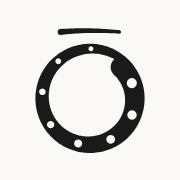
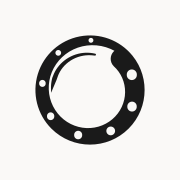
feat(mark): no macron; a far arm slides out from behind the ring (v2.0.106)
The Ō pairing — a round O under a level bar — is a registered mark in this
market, and at icon size the old mark reduced to exactly that. The ring stays
as it was, recentred on (50, 50); the thin end of a second arm slides out from
under its inner edge and runs along the inside of the top, drifting inward to
open a narrow wedge. The Ō stays in the TEKIŌ wordmark.

favicon.svg (22.7 → 4.2 kB), apple-touch-icon.png and the index.html splash
are regenerated from one geometry; the splash draws the far arm with a second
brush in the macron's old slot. RFC 0079 in tekio.rfcs.

Changed region(s): [[0.1944, 0.1389, 0.8056, 0.8611]]

diff --git a/index.html b/index.html
@@ -23,16 +23,15 @@
       #splash .w { font-size: 15px; font-weight: 700; letter-spacing: .14em; margin-right: -.14em; animation: sp-word .5s cubic-bezier(.2, 0, .2, 1) 1.15s both; }
       #splash .r { stroke-dasharray: 1 2; animation: sp-draw 1.1s cubic-bezier(.5, 0, .25, 1) .25s both; }
       #splash .b { transform-box: fill-box; transform-origin: center; animation: sp-touch .14s ease-out .25s both; }
-      #splash .mr { transform-box: fill-box; transform-origin: left center; animation: sp-mac .38s cubic-bezier(.3, 0, .2, 1) .97s both; }
+      #splash .f { stroke-dasharray: 1 2; animation: sp-draw .38s cubic-bezier(.3, 0, .2, 1) .97s both; }
       #splash .d { transform-box: fill-box; transform-origin: center; transform: scale(0); animation: sp-open .26s ease-out both; }
       @keyframes sp-in { from { opacity: 0; } to { opacity: 1; } }
       @keyframes sp-draw { from { stroke-dashoffset: 1; } to { stroke-dashoffset: 0; } }
       @keyframes sp-touch { from { transform: scale(.2); opacity: 0; } }
-      @keyframes sp-mac { from { transform: scaleX(0); } }
       @keyframes sp-word { from { opacity: 0; letter-spacing: .26em; } }
       @keyframes sp-open { from { transform: scale(1); } to { transform: scale(0); } }
       @media (prefers-reduced-motion: reduce) {
-        #splash .r, #splash .b, #splash .mr, #splash .w, #splash .d { animation: none; }
+        #splash .r, #splash .b, #splash .f, #splash .w, #splash .d { animation: none; }
         #splash { transition: none; }
       }
     </style>
@@ -44,31 +43,32 @@
          bootstrap() settles; there is no minimum time on screen, and nothing
          shows for the first 250 ms, so a fast load never sees it at all.
 
-         The mark is public/favicon.svg rebuilt from the construction its own
-         comment states — outer edge a true circle r 39 about (50, 56), inner
-         edge 39 − w(t) with w(t) = 5.2 + 9.8·(1−t)^0.85 over 366° from −45°, a
-         semicircle cap at the root, round suckers — as arcs instead of dense
-         Béziers: 1.8 kB against 21 kB, within anti-aliasing of the favicon at
-         400 px. It is revealed the way it was drawn: a mask stroke follows the
-         centreline, r = 39 − w/2, root to tip. Each
-         sucker is an ink disc laid over its real hole and scaled away 0.1 s
-         after the brush passes it; the delays invert the curl's easing at
-         t = (i + 0.6)/8.8. Change the logo and these numbers are regenerated
-         with it, not hand-tuned. -->
+         The mark is public/favicon.svg, the same two paths (RFC 0079): the ring
+         as arcs, outer edge a true circle r 39 about (50, 50), inner edge
+         39 − w(t) with w(t) = 5.2 + 9.8·(1−t)^0.85 over 366° from −45°, a
+         semicircle cap at the root, round suckers; and the far arm, already cut
+         back by the ring grown 1.6 units. It is revealed the way it was drawn:
+         a mask stroke follows the ring's centreline, r = 39 − w/2, root to tip.
+         Each sucker is an ink disc laid over its real hole and scaled away
+         0.1 s after the brush passes it; the delays invert the curl's easing at
+         t = (i + 0.6)/8.8. The far arm is drawn by a second brush along its own
+         centreline, from where it clears the ring to 2 units past its tip,
+         starting as the first brush passes over it. Change the logo and these
+         numbers are regenerated with it, not hand-tuned. -->
     <div id="splash" aria-hidden="true">
       <div class="m">
         <svg viewBox="0 0 100 100">
           <defs>
             <mask id="sp-arm" maskUnits="userSpaceOnUse" x="0" y="0" width="100" height="100">
-              <path class="r" d="M72.3,33.7 L74.2,35.8 L76,37.9 L77.5,40.3 L78.8,42.8 L80,45.3 L80.8,48 L81.5,50.8 L81.9,53.6 L82,56.4 L81.9,59.3 L81.6,62.1 L81,64.9 L80.1,67.6 L79,70.2 L77.7,72.8 L76.1,75.2 L74.4,77.5 L72.4,79.6 L70.3,81.6 L68,83.3 L65.5,84.8 L62.9,86.2 L60.2,87.2 L57.4,88.1 L54.5,88.7 L51.6,89 L48.7,89.1 L45.8,88.9 L42.9,88.5 L40,87.8 L37.2,86.8 L34.5,85.6 L31.9,84.2 L29.4,82.5 L27.1,80.6 L25,78.5 L23,76.3 L21.3,73.8 L19.8,71.2 L18.5,68.5 L17.4,65.7 L16.6,62.8 L16.1,59.8 L15.8,56.8 L15.8,53.8 L16.1,50.7 L16.6,47.7 L17.4,44.8 L18.5,41.9 L19.8,39.1 L21.3,36.5 L23.1,34 L25.1,31.6 L27.3,29.5 L29.7,27.5 L32.3,25.8 L35,24.2 L37.9,23 L40.8,22 L43.9,21.2 L47,20.7 L50.1,20.5 L53.2,20.6 L56.4,20.9 L59.5,21.6 L62.5,22.5 L65.5,23.6 L68.3,25.1 L71.1,26.7 L73.7,28.6 L76,30.8 L78.3,33.1" pathLength="1" fill="none" stroke="#fff" stroke-width="16"/>
-              <circle class="b" cx="72.27" cy="33.73" r="7.8" fill="#fff"/>
+              <path class="r" d="M72.3,27.7 L74.2,29.8 L76,31.9 L77.5,34.3 L78.8,36.8 L80,39.3 L80.8,42 L81.5,44.8 L81.9,47.6 L82,50.4 L81.9,53.3 L81.6,56.1 L81,58.9 L80.1,61.6 L79,64.3 L77.7,66.8 L76.1,69.2 L74.4,71.5 L72.4,73.6 L70.3,75.6 L68,77.3 L65.5,78.8 L62.9,80.2 L60.2,81.2 L57.4,82.1 L54.5,82.7 L51.6,83 L48.7,83.1 L45.8,82.9 L42.9,82.5 L40,81.8 L37.2,80.8 L34.5,79.6 L31.9,78.2 L29.4,76.5 L27.1,74.6 L25,72.5 L23,70.3 L21.3,67.8 L19.8,65.3 L18.5,62.5 L17.4,59.7 L16.6,56.8 L16.1,53.8 L15.8,50.8 L15.8,47.8 L16.1,44.7 L16.6,41.7 L17.4,38.8 L18.5,35.9 L19.8,33.1 L21.3,30.5 L23.1,28 L25.1,25.6 L27.3,23.5 L29.7,21.5 L32.3,19.8 L35,18.3 L37.9,17 L40.8,16 L43.9,15.2 L47,14.7 L50.1,14.5 L53.3,14.6 L56.4,14.9 L59.5,15.6 L62.5,16.5 L65.5,17.6 L68.3,19.1 L71.1,20.7 L73.7,22.6 L76,24.8 L78.3,27.1" pathLength="1" fill="none" stroke="#fff" stroke-width="16"/>
+              <circle class="b" cx="72.27" cy="27.73" r="7.8" fill="#fff"/>
             </mask>
-            <mask id="sp-mac" maskUnits="userSpaceOnUse" x="0" y="0" width="100" height="100">
-              <rect class="mr" x="26.5" y="2" width="46" height="12" fill="#fff"/>
+            <mask id="sp-far" maskUnits="userSpaceOnUse" x="0" y="0" width="100" height="100">
+              <path class="f" d="M20.2,52.5L20.6,51.1L21.1,49.8L21.7,48.5L22.2,47.2L22.8,46L23.3,44.9L23.8,43.7L24.3,42.6L24.8,41.5L25.2,40.4L25.6,39.2L26.1,38.1L26.7,37L27.3,36L27.9,35L28.7,34L29.4,33L30.2,32.1L31.1,31.3L32,30.5L32.9,29.7L33.9,29L34.9,28.3L35.9,27.7L36.9,27.1L38,26.6L39.1,26.1L40.2,25.7L41.4,25.3L42.5,25L43.7,24.7L44.8,24.5L46,24.4L47.2,24.3L48.3,24.3L49.5,24.3L50.7,24.4L51.8,24.5L53,24.6L53.5,24.7L55.5,25.1" pathLength="1" fill="none" stroke="#fff" stroke-width="7"/>
             </mask>
           </defs>
-          <g mask="url(#sp-arm)"><path d="M77.58,28.42A39,39 0 1 1 22.42,83.58A39,39 0 1 1 80.31,31.46L76.27,34.73L73.65,32.27L70.84,30.08L67.85,28.2L64.7,26.65L61.42,25.45L58.06,24.6L54.65,24.12L51.23,23.99L47.83,24.23L44.5,24.82L41.27,25.75L38.17,27.02L35.24,28.59L32.51,30.46L30.01,32.59L27.76,34.97L25.78,37.55L24.1,40.32L22.73,43.23L21.68,46.25L20.97,49.35L20.59,52.49L20.54,55.64L20.83,58.76L21.44,61.81L22.37,64.76L23.6,67.59L25.12,70.25L26.9,72.72L28.92,74.98L31.16,77L33.59,78.76L36.17,80.24L38.89,81.43L41.7,82.32L44.57,82.91L47.48,83.19L50.38,83.15L53.24,82.81L56.04,82.17L58.74,81.24L61.31,80.03L63.72,78.57L65.96,76.87L67.98,74.95L69.79,72.84L71.34,70.56L72.64,68.14L73.67,65.61L74.42,63L74.89,60.34L75.07,57.66L74.96,55L74.57,52.37L73.91,49.82L72.99,47.36L71.81,45.03L70.41,42.85L68.79,40.84L66.97,39.03A7.5,7.5 0 0 1 77.58,28.42ZM83.47,45.11a3.61,3.61 0 1 0 -7.22,0a3.61,3.61 0 1 0 7.22,0ZM83.38,67.85a3.36,3.36 0 1 0 -6.73,0a3.36,3.36 0 1 0 6.73,0ZM67.92,85.23a3.12,3.12 0 1 0 -6.24,0a3.12,3.12 0 1 0 6.24,0ZM44.41,88.18a2.86,2.86 0 1 0 -5.73,0a2.86,2.86 0 1 0 5.73,0ZM24.49,74.73a2.6,2.6 0 1 0 -5.21,0a2.6,2.6 0 1 0 5.21,0ZM18.34,51.27a2.34,2.34 0 1 0 -4.68,0a2.34,2.34 0 1 0 4.68,0ZM29.39,29.46a2.05,2.05 0 1 0 -4.1,0a2.05,2.05 0 1 0 4.1,0ZM52.43,20.51a1.75,1.75 0 1 0 -3.5,0a1.75,1.75 0 1 0 3.5,0Z"/><circle class="d" cx="79.86" cy="45.11" r="4.61" style="animation-delay:0.55s"/><circle class="d" cx="80.02" cy="67.85" r="4.36" style="animation-delay:0.65s"/><circle class="d" cx="64.80" cy="85.23" r="4.12" style="animation-delay:0.71s"/><circle class="d" cx="41.55" cy="88.18" r="3.86" style="animation-delay:0.75s"/><circle class="d" cx="21.88" cy="74.73" r="3.60" style="animation-delay:0.80s"/><circle class="d" cx="16.00" cy="51.27" r="3.34" style="animation-delay:0.85s"/><circle class="d" cx="27.34" cy="29.46" r="3.05" style="animation-delay:0.92s"/><circle class="d" cx="50.68" cy="20.51" r="2.75" style="animation-delay:1.02s"/></g>
-          <g mask="url(#sp-mac)"><path d="M29,6.4L30.75,6.32L32.5,6.24L34.25,6.17L36,6.1L37.75,6.04L39.5,5.99L41.25,5.95L43,5.92L44.75,5.91L46.5,5.91L48.25,5.92L50,5.95L51.75,6L53.5,6.06L55.25,6.13L57,6.22L58.75,6.32L60.5,6.44L62.25,6.56L64,6.7L65.75,6.84L67.5,6.99L69.25,7.15L71,7.3L71,9.7L69.25,9.62L67.5,9.54L65.75,9.47L64,9.4L62.25,9.34L60.5,9.29L58.75,9.25L57,9.22L55.25,9.21L53.5,9.21L51.75,9.22L50,9.25L48.25,9.3L46.5,9.36L44.75,9.43L43,9.52L41.25,9.62L39.5,9.74L37.75,9.86L36,10L34.25,10.14L32.5,10.29L30.75,10.45L29,10.6Z"/><circle cx="29" cy="8.5" r="2.1"/><circle cx="71" cy="8.5" r="1.2"/></g>
+          <g mask="url(#sp-arm)"><path d="M77.58,22.42A39,39 0 1 1 22.42,77.58A39,39 0 1 1 80.31,25.46L76.27,28.73L73.65,26.27L70.84,24.08L67.85,22.2L64.7,20.65L61.42,19.45L58.06,18.6L54.65,18.12L51.23,17.99L47.83,18.23L44.5,18.82L41.27,19.75L38.17,21.02L35.24,22.59L32.51,24.46L30.01,26.59L27.76,28.97L25.78,31.55L24.1,34.32L22.73,37.23L21.68,40.25L20.97,43.35L20.59,46.49L20.54,49.64L20.83,52.76L21.44,55.81L22.37,58.76L23.6,61.59L25.12,64.25L26.9,66.72L28.92,68.98L31.16,71L33.59,72.76L36.17,74.24L38.89,75.43L41.7,76.32L44.57,76.91L47.48,77.19L50.38,77.15L53.24,76.81L56.04,76.17L58.74,75.24L61.31,74.03L63.72,72.57L65.96,70.87L67.98,68.95L69.79,66.84L71.34,64.56L72.64,62.14L73.67,59.61L74.42,57L74.89,54.34L75.07,51.66L74.96,49L74.57,46.37L73.91,43.82L72.99,41.36L71.81,39.03L70.41,36.85L68.79,34.84L66.97,33.03A7.5,7.5 0 0 1 77.58,22.42ZM83.47,39.11a3.61,3.61 0 1 0 -7.21,0a3.61,3.61 0 1 0 7.21,0ZM83.38,61.85a3.37,3.37 0 1 0 -6.73,0a3.37,3.37 0 1 0 6.73,0ZM67.92,79.23a3.12,3.12 0 1 0 -6.24,0a3.12,3.12 0 1 0 6.24,0ZM44.41,82.17a2.87,2.87 0 1 0 -5.73,0a2.87,2.87 0 1 0 5.73,0ZM24.49,68.74a2.61,2.61 0 1 0 -5.21,0a2.61,2.61 0 1 0 5.21,0ZM18.34,45.28a2.34,2.34 0 1 0 -4.67,0a2.34,2.34 0 1 0 4.67,0ZM29.39,23.47a2.05,2.05 0 1 0 -4.11,0a2.05,2.05 0 1 0 4.11,0ZM52.43,14.51a1.75,1.75 0 1 0 -3.5,0a1.75,1.75 0 1 0 3.5,0Z"/><circle class="d" cx="79.86" cy="39.11" r="4.61" style="animation-delay:0.55s"/><circle class="d" cx="80.01" cy="61.85" r="4.37" style="animation-delay:0.65s"/><circle class="d" cx="64.80" cy="79.23" r="4.12" style="animation-delay:0.71s"/><circle class="d" cx="41.54" cy="82.17" r="3.87" style="animation-delay:0.75s"/><circle class="d" cx="21.88" cy="68.74" r="3.61" style="animation-delay:0.80s"/><circle class="d" cx="16.00" cy="45.28" r="3.34" style="animation-delay:0.85s"/><circle class="d" cx="27.34" cy="23.47" r="3.05" style="animation-delay:0.92s"/><circle class="d" cx="50.68" cy="14.51" r="2.75" style="animation-delay:1.02s"/></g>
+          <path mask="url(#sp-far)" d="M46.5,23.4L48.33,23.37L50.14,23.47L51.93,23.7L53.8,24.08L53.92,24.14L54.03,24.23L54.12,24.33L54.19,24.45L54.23,24.58L54.25,24.72L54.24,24.85L54.2,24.99L54.14,25.11L54.06,25.22L53.96,25.31L53.84,25.38L53.71,25.42L53.57,25.44L50.89,25.18L48.91,25.14L46.93,25.26L45.25,25.48L43.3,25.89L41.4,26.45L39.54,27.17L37.75,28.04L36.27,28.91L34.63,30.04L33.09,31.31L31.66,32.7L30.54,33.99L29.52,35.35L28.61,36.79L27.82,38.28L27.26,39.56L26.15,42.69L23.12,49.81L22.34,51.98L22.21,50.75L22.13,49.42L22.13,47.66L22.2,46.32L22.34,44.95L22.54,43.64L22.81,42.31L23.07,41.26L24.26,38.3L24.99,36.83L25.8,35.44L26.71,34.1L27.9,32.58L28.97,31.39L30.35,30.06L31.82,28.84L33.1,27.9L34.71,26.89L36.37,26.01L38.09,25.24L39.85,24.61L41.64,24.11L43.46,23.73L45.28,23.49Z"/>
         </svg>
         <div class="w">TEKIŌ</div>
       </div>
